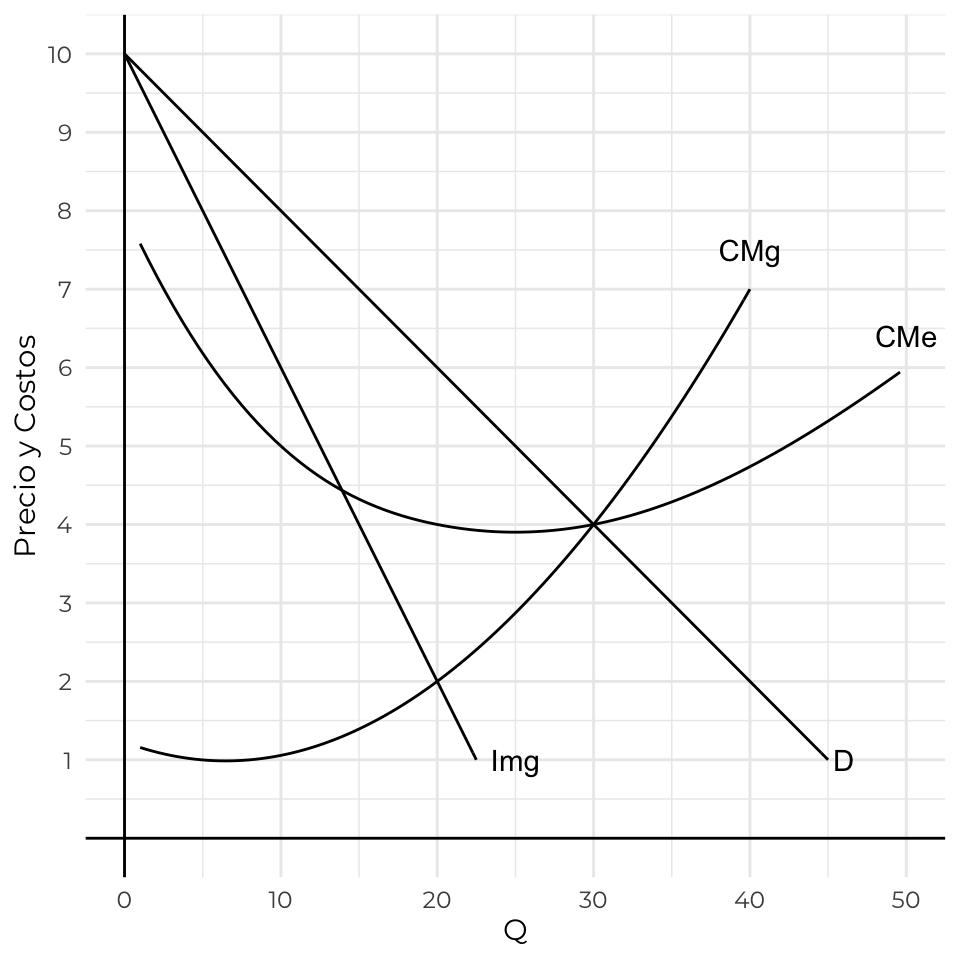
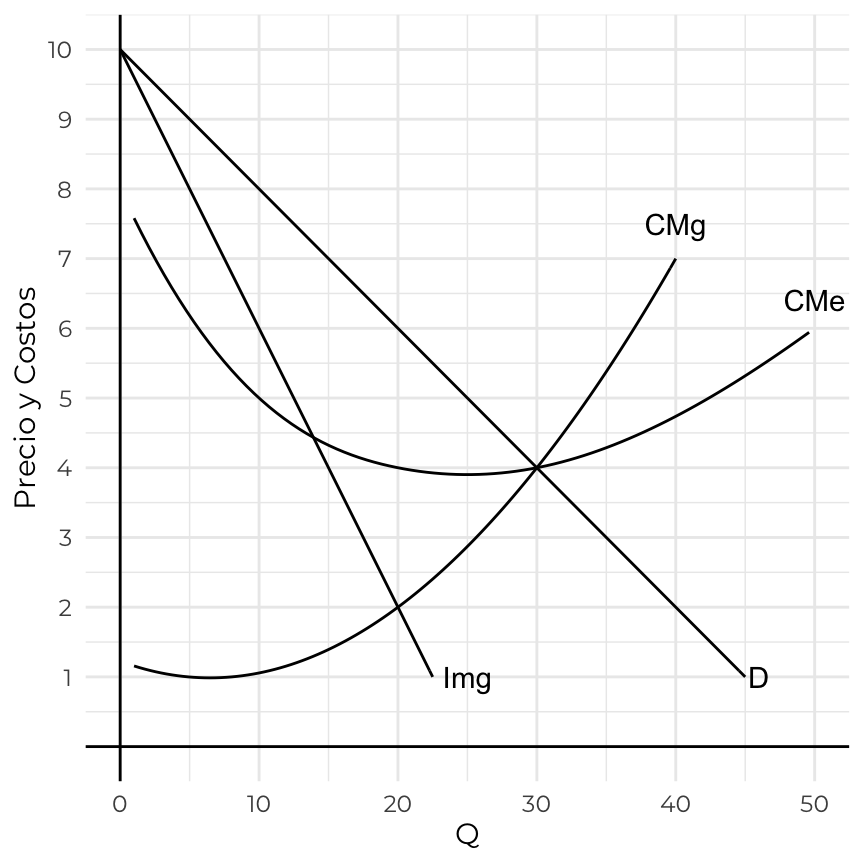
Monopolio

diff --git a/content/clases/2019-04-15-competencia-imperfecta.html b/content/clases/2019-04-15-competencia-imperfecta.html
@@ -33,7 +33,7 @@ weight: 6
 <ol start="3" style="list-style-type: decimal">
 <li>Un mercado opera como un monopolio con la siguiente estructura de demanda y costos:</li>
 </ol>
-<p><img src="/clases/2019-04-15-competencia-imperfecta_files/figure-html/unnamed-chunk-2-1.png" width="480" /></p>
+<p><img src="/clases/2019-04-15-competencia-imperfecta_files/figure-html/unnamed-chunk-2-1.png" width="432" /></p>
 <ul>
 <li>Calcular la cantidad producida y el nivel de precios.</li>
 <li>Calcular el ingreso total de la empresa.</li>
@@ -41,31 +41,27 @@ weight: 6
 <li>Calcular el beneficio de la empresa.</li>
 </ul>
 <ol start="4" style="list-style-type: decimal">
+<li>Considere un mercado con esta estructura de costos y demanda:</li>
+</ol>
+<p><img src="/clases/2019-04-15-competencia-imperfecta_files/figure-html/unnamed-chunk-3-1.png" width="432" /></p>
+<ul>
+<li>¿Cuál es la cantidad y el precio si el mercado funciona como un monopolio sin regulación?</li>
+<li>¿Cuales son el precio y la cantidad de equilibrio si un regulador aplica la regla del costo marginal?</li>
+<li>¿Cuales son el precio y la cantidad de equilibrio si un regulador aplica la regla del costo medio?</li>
+<li>¿Cuál es la ventaja de la regla del costo medio sobre la del costo marginal?</li>
+</ul>
+<ol start="5" style="list-style-type: decimal">
 <li>Analizar <a href="katoen_el_pais.pdf">esta noticia</a>.</li>
 </ol>
 <ul>
 <li>¿En qué consiste el acuerdo entre el gobierno uruguayo y Katoen Natie?</li>
 <li>¿Cuál es la opinión de los autores sobre el impacto del acuerdo en el nivel de competencia en los servicios del puerto?</li>
 </ul>
-<ol start="5" style="list-style-type: decimal">
-<li>Considere un mercado con esta estructura de costos y demanda:</li>
-</ol>
-<p><img src="/clases/2019-04-15-competencia-imperfecta_files/figure-html/unnamed-chunk-3-1.png" width="480" /></p>
-<ul>
-<li>¿Cuál es la cantidad y el precio si el mercado funciona como un monopolio sin reguladación?</li>
-<li>¿Cuales son el precio y la cantidad de equilibrio si un regulador aplica la regla del costo marginal?</li>
-<li>¿Cuales son el precio y la cantidad de equilibrio si un regulador aplica la regla del costo medio?</li>
-<li>¿Cuál es la ventaja de la regla del costo medio sobre la del costo marginal?</li>
-</ul>
+<!-- 6. Escuchar [esta entrevista](https://delsol.uy/notoquennada/sebastianfleitas/defensa-de-la-competencia-perdio-prestigio-en-caso-con-philip-morris-1) y contestar las siguientes preguntas: -->
+<!-- -  ¿Por qué práctica anticompetitiva fue denunciada la filial uruguaya de Philip Morris? ¿En qué consiste esta práctica? ¿Cuál fue el resultado de la denuncia? -->
+<!-- - ¿Qué argumentos hay a favor de que las acciones de Philip Morris son anticompetitivas? ¿Y en contra? -->
+<!-- - ¿Cuál es el diagnóstico del entrevistado sobre el funcionamiento actual de la Comisión de Defensa de la Competencia? -->
 <ol start="6" style="list-style-type: decimal">
-<li>Escuchar <a href="https://delsol.uy/notoquennada/sebastianfleitas/defensa-de-la-competencia-perdio-prestigio-en-caso-con-philip-morris-1">esta entrevista</a> a <a href="http://www.sebastianfleitas.com/">Sebastián Fleitas</a> y contestar las siguientes preguntas:</li>
-</ol>
-<ul>
-<li>¿Por qué práctica anticompetitiva fue denunciada la filial uruguaya de Philip Morris? ¿En qué consiste esta práctica? ¿Cuál fue el resultado de la denuncia?</li>
-<li>¿Qué argumentos hay a favor de que las acciones de Philip Morris son anticompetitivas? ¿Y en contra?</li>
-<li>¿Cuál es el diagnóstico de Fleitas sobre el funcionamiento actual de la Comisión de Defensa de la Competencia?</li>
-</ul>
-<ol start="5" style="list-style-type: decimal">
 <li>Leer <a href="https://www.vox.com/recode/2020/10/6/21505027/congress-big-tech-antitrust-report-facebook-google-amazon-apple-mark-zuckerberg-jeff-bezos-tim-cook">este artículo</a> sobre el mercado de tecnología en EUA.</li>
 </ol>
 <ul>
